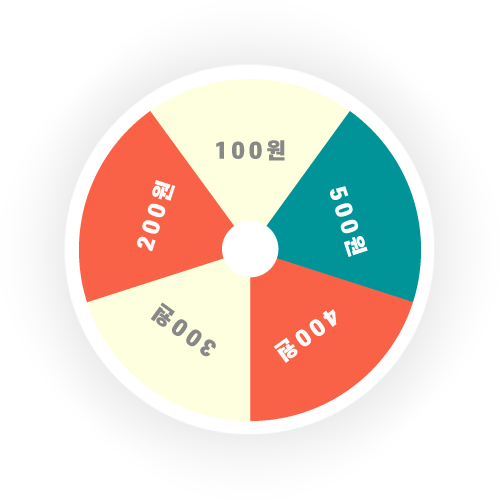
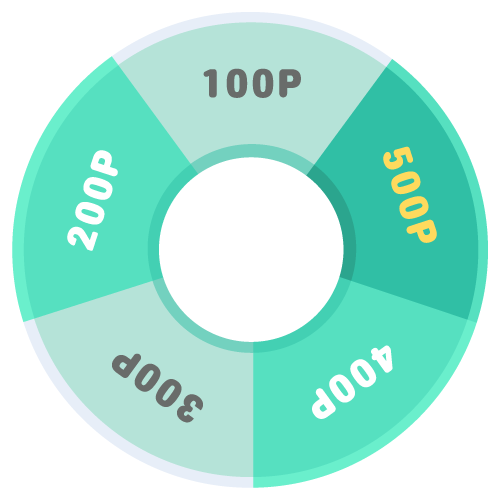
240520 룰렛api 완료

diff --git a/src/main/resources/static/css/calendar.css b/src/main/resources/static/css/calendar.css
@@ -6,14 +6,15 @@
         margin: 0 auto;
         transform: rotate(0deg); /* 기본 상태에서의 회전 각도 */
         transition: transform 2s cubic-bezier(0.68, -0.55, 0.27, 1.55); /* 애니메이션 효과 */
+        top: 227px;
     }
 
     .section {
         width: 100%;
         height: 100%;
         position: absolute;
-        top: 0;
-        left: 0;
+        top: 0px;
+        left: 0px;
         background-image: url('/images/this.png');
         background-size: cover;
         background-position: center;
@@ -29,20 +30,20 @@
         background-size: cover;
         background-position: center;
         position: absolute;
-        top: 22%; /* 위치를 조정 */
+        top: 33%; /* 위치를 조정 */
         left: 50%; /* 위치를 중앙으로 설정 */
-        transform: translateX(-50%); /* 중앙으로부터 이동 */
+        transform: translateX(-50%);
         z-index: 1;
     }
 
     .start {
-        width: 120px; /* 버튼 이미지의 너비 */
-        height: 120px; /* 버튼 이미지의 높이 */
+        width: 201px; /* 버튼 이미지의 너비 */
+        height: 201px; /* 버튼 이미지의 높이 */
         background-image: url('/images/start.png');
         background-size: cover;
         background-position: center;
         position: absolute;
-        top: 38%; /* 위치를 조정 */
+        top: 52%; /* 위치를 조정 */
         left: 50%; /* 위치를 중앙으로 설정 */
         transform: translateX(-50%); /* 중앙으로부터 이동 */
         border: none; /* 테두리 없애기 */
@@ -54,7 +55,8 @@
     .calendar-container {
         width: 30%;
         position: relative;
-        height: 43%;
+        height: 33%;
+        top: 20%;
         margin: 20px auto;
         border: 10px solid #ccc;
         border-radius: 10px;

diff --git a/src/main/resources/static/js/calendar.js b/src/main/resources/static/js/calendar.js
@@ -39,7 +39,7 @@ function spin() {
             roulette.style.transform = `rotate(${finalRotation}deg)`;
 
             setTimeout(() => {
-                const data2 = { memberId: memberId, date: today, status: '8975' };
+                const data2 = { memberId: memberId, date: today, status: data.result };
                 fetch('/attendance', {
                     method: 'POST',
                     headers: {
@@ -70,7 +70,7 @@ $(document).ready(function() {
         editable: false,
         height: 'auto', // 스크롤바 안생기게 자동 높이 조정
         events: function(start, end, timezone, callback) {
-            fetch(`/test/attendance/${memberId}`)
+            fetch(`/attendance/all/${memberId}`)
                 .then(response => {
                     if (!response.ok) {
                         throw new Error('Network response was not ok');
@@ -82,7 +82,7 @@ $(document).ready(function() {
                     const events = data.map(attendance => ({
                         title: attendance.status,
                         start: attendance.date,
-                        color: attendance.status === '8975' ? 'green' : 'red'
+                        color: 'green'
                     }));
                     callback(events);
                 })

diff --git a/src/main/resources/templates/Roulette/PlayRoulette.html b/src/main/resources/templates/Roulette/PlayRoulette.html
@@ -9,8 +9,7 @@
 <link href="https://cdnjs.cloudflare.com/ajax/libs/fullcalendar/3.10.2/fullcalendar.min.css" rel="stylesheet">
 <div class="container">
     <div th:replace="fragments/bodyHeader :: bodyHeader"></div>
-    <div class="jumbotron" style="height: 1150px;">
-        <h1>룰렛 게임</h1>
+    <div class="jumbotron2">
         <div class="arrow"></div>
         <div id="roulette">
             <div class="section"></div>

diff --git a/src/main/resources/static/css/jumbotron-narrow.css b/src/main/resources/static/css/jumbotron-narrow.css
@@ -49,6 +49,17 @@
  background-size: cover;
  background-position: center;
  }
+
+ .jumbotron2 {
+ text-align: center;
+ border-bottom: 1px solid #e5e5e5;
+ height: 1500px;
+ background-image: url('/images/calendarback.png');
+ background-repeat: no-repeat; /* 배경 이미지 반복 안 함 */
+ background-size: cover;
+ background-position: center;
+ }
+
  .jumbotron .btn {
  font-size: 21px;
  padding: 14px 24px;

diff --git a/src/main/java/jpacalendarchallenge/jpacacha/api/AttendanceApiController.java b/src/main/java/jpacalendarchallenge/jpacacha/api/AttendanceApiController.java
@@ -30,8 +30,18 @@ public class AttendanceApiController {
         return attendanceService.saveAttendance(attendance);
     }
 
-    @GetMapping(value = "/test/attendance/{memberId}")
+    @GetMapping(value = "/test/attendance/{memberId}") // 현재 사용자의 모든 출석기록에서 '오늘'날짜만 find
     public ResponseEntity<List<Attendance>> testGetAttendance(@PathVariable("memberId") Long memberId) {
+        LocalDate today = LocalDate.now();
+        List<Attendance> attendances = attendanceService.getAttendanceByMemberId(memberId);
+        List<Attendance> todayAttendances = attendances.stream()
+                .filter(attendance -> attendance.getDate().isEqual(today))
+                .collect(Collectors.toList());
+        return new ResponseEntity<>(todayAttendances, HttpStatus.OK);
+    }
+
+    @GetMapping(value = "/attendance/all/{memberId}") // 현재 사용자의 모든 출석기록을 달력에 표시
+    public ResponseEntity<List<Attendance>> getAllAttendances(@PathVariable("memberId") Long memberId) {
         List<Attendance> attendances = attendanceService.getAttendanceByMemberId(memberId);
         return new ResponseEntity<>(attendances, HttpStatus.OK);
     }
